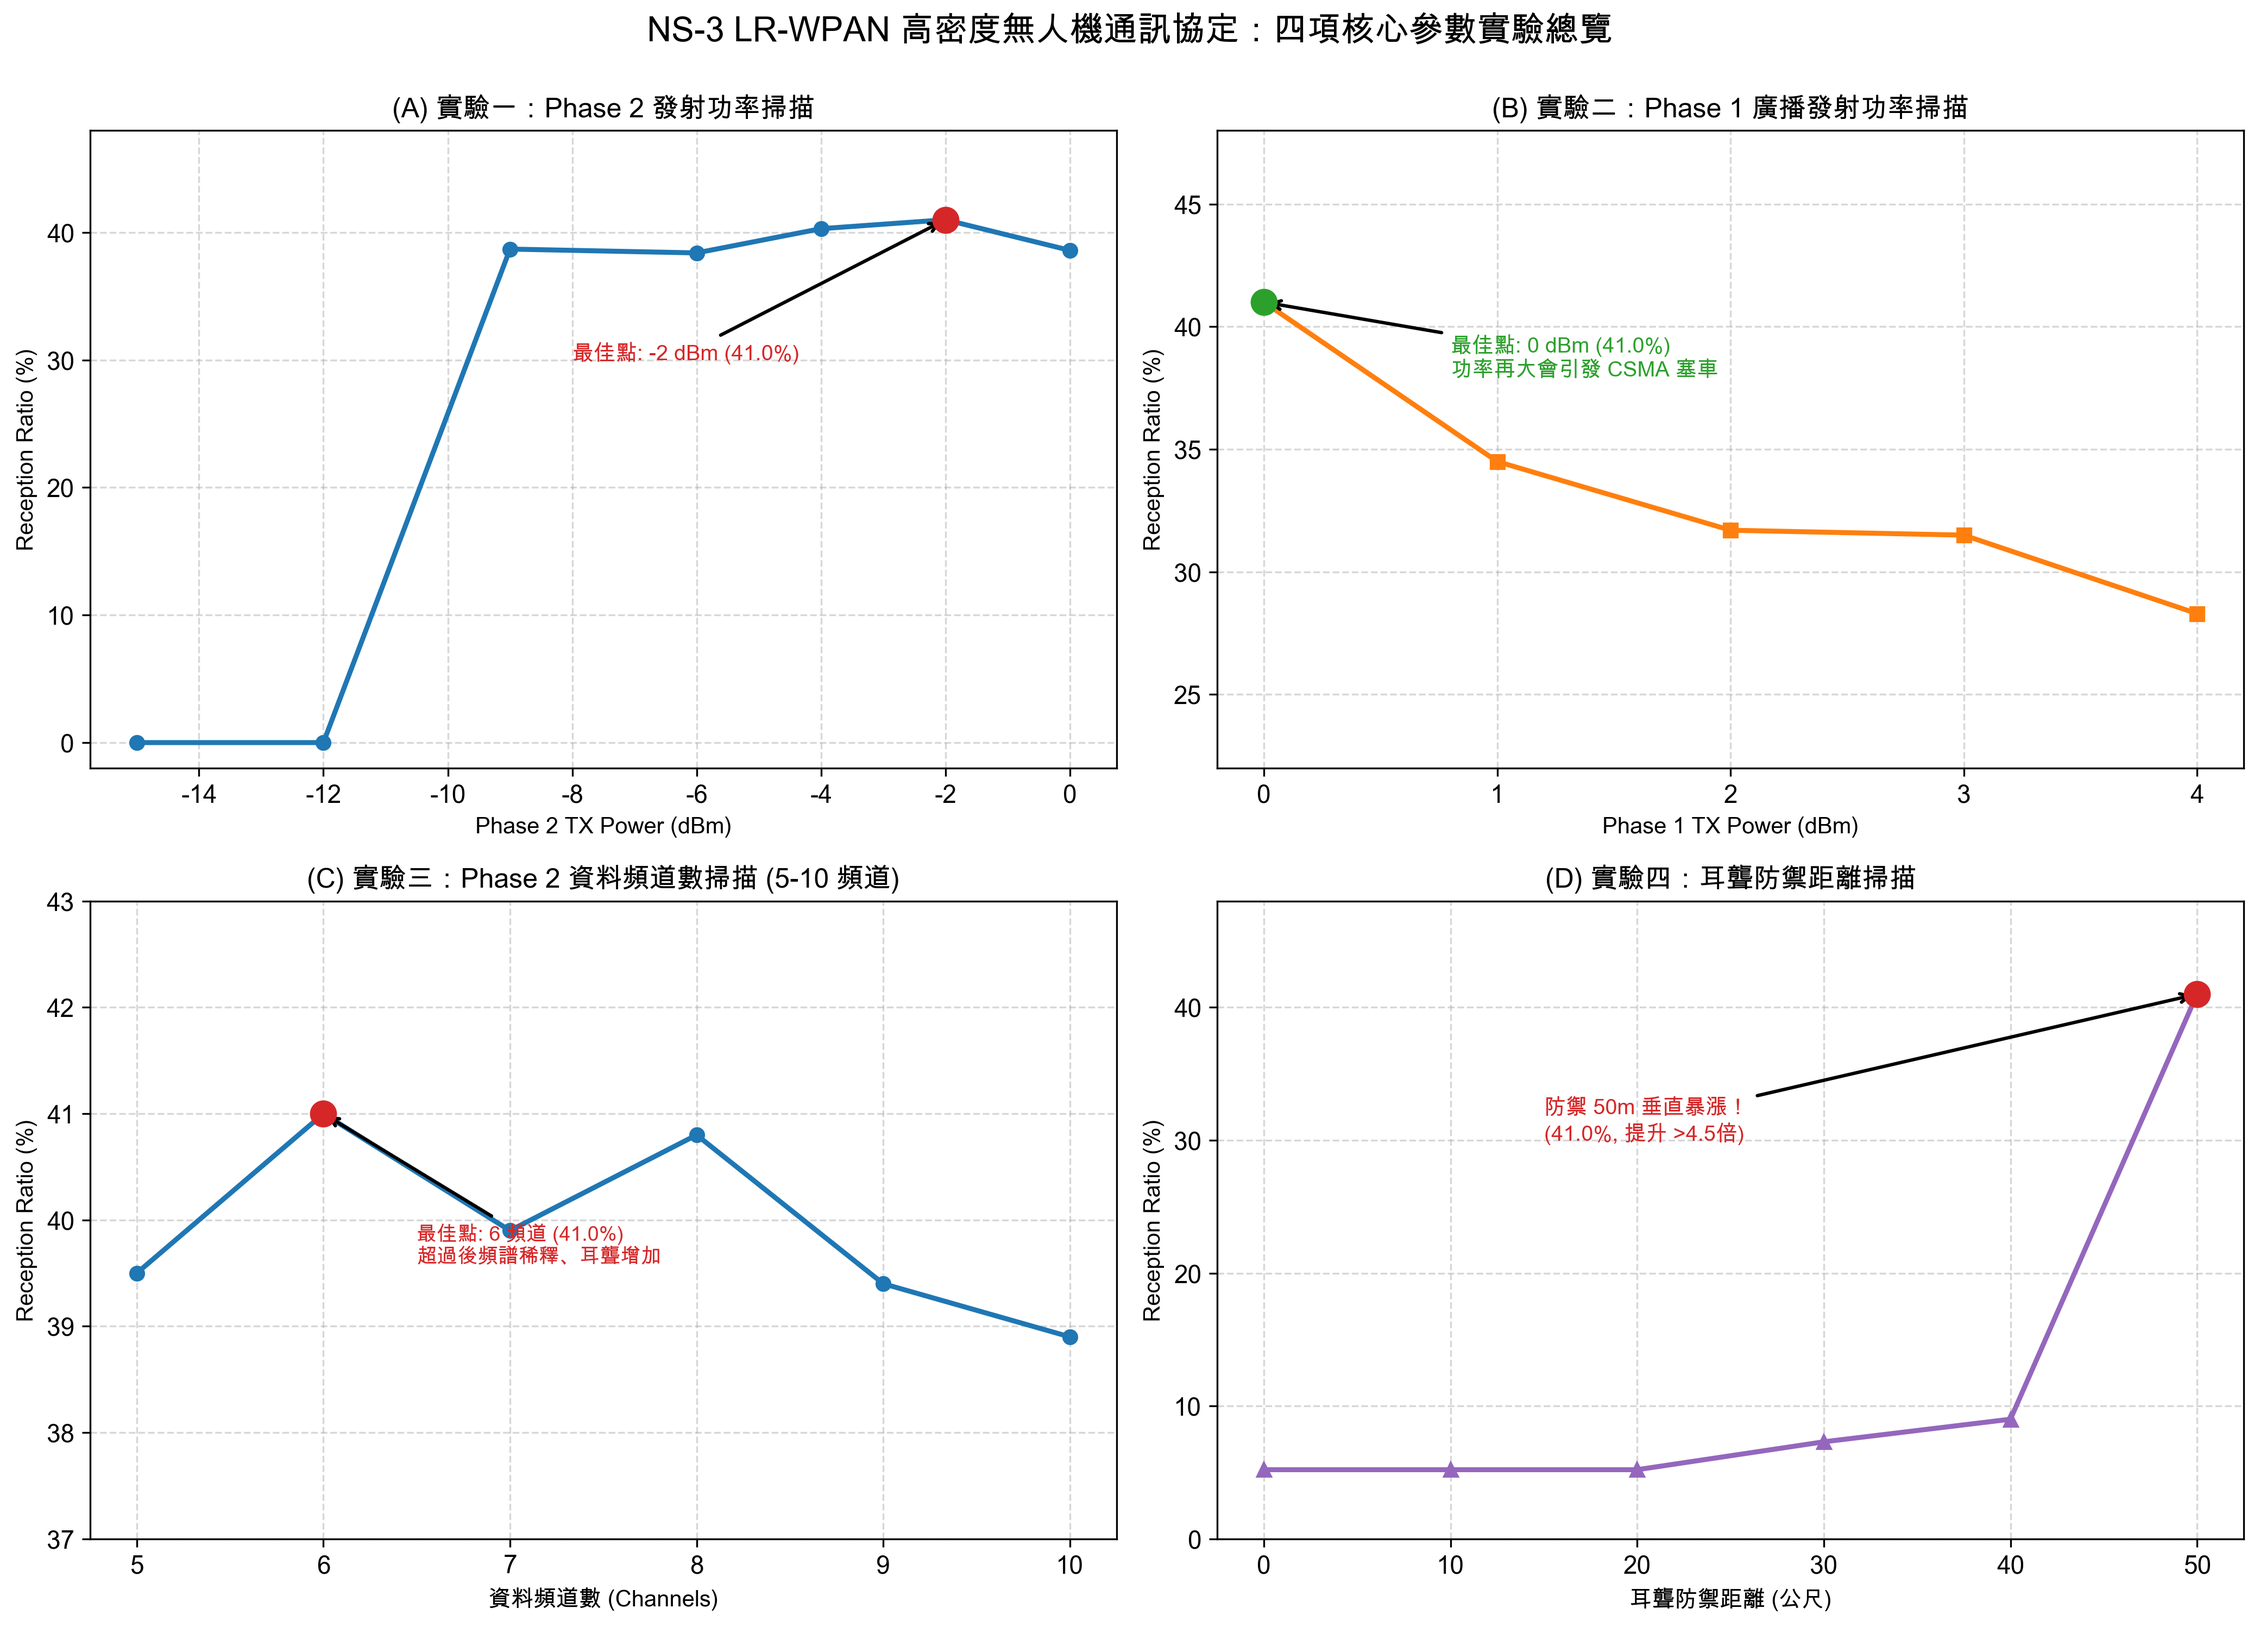
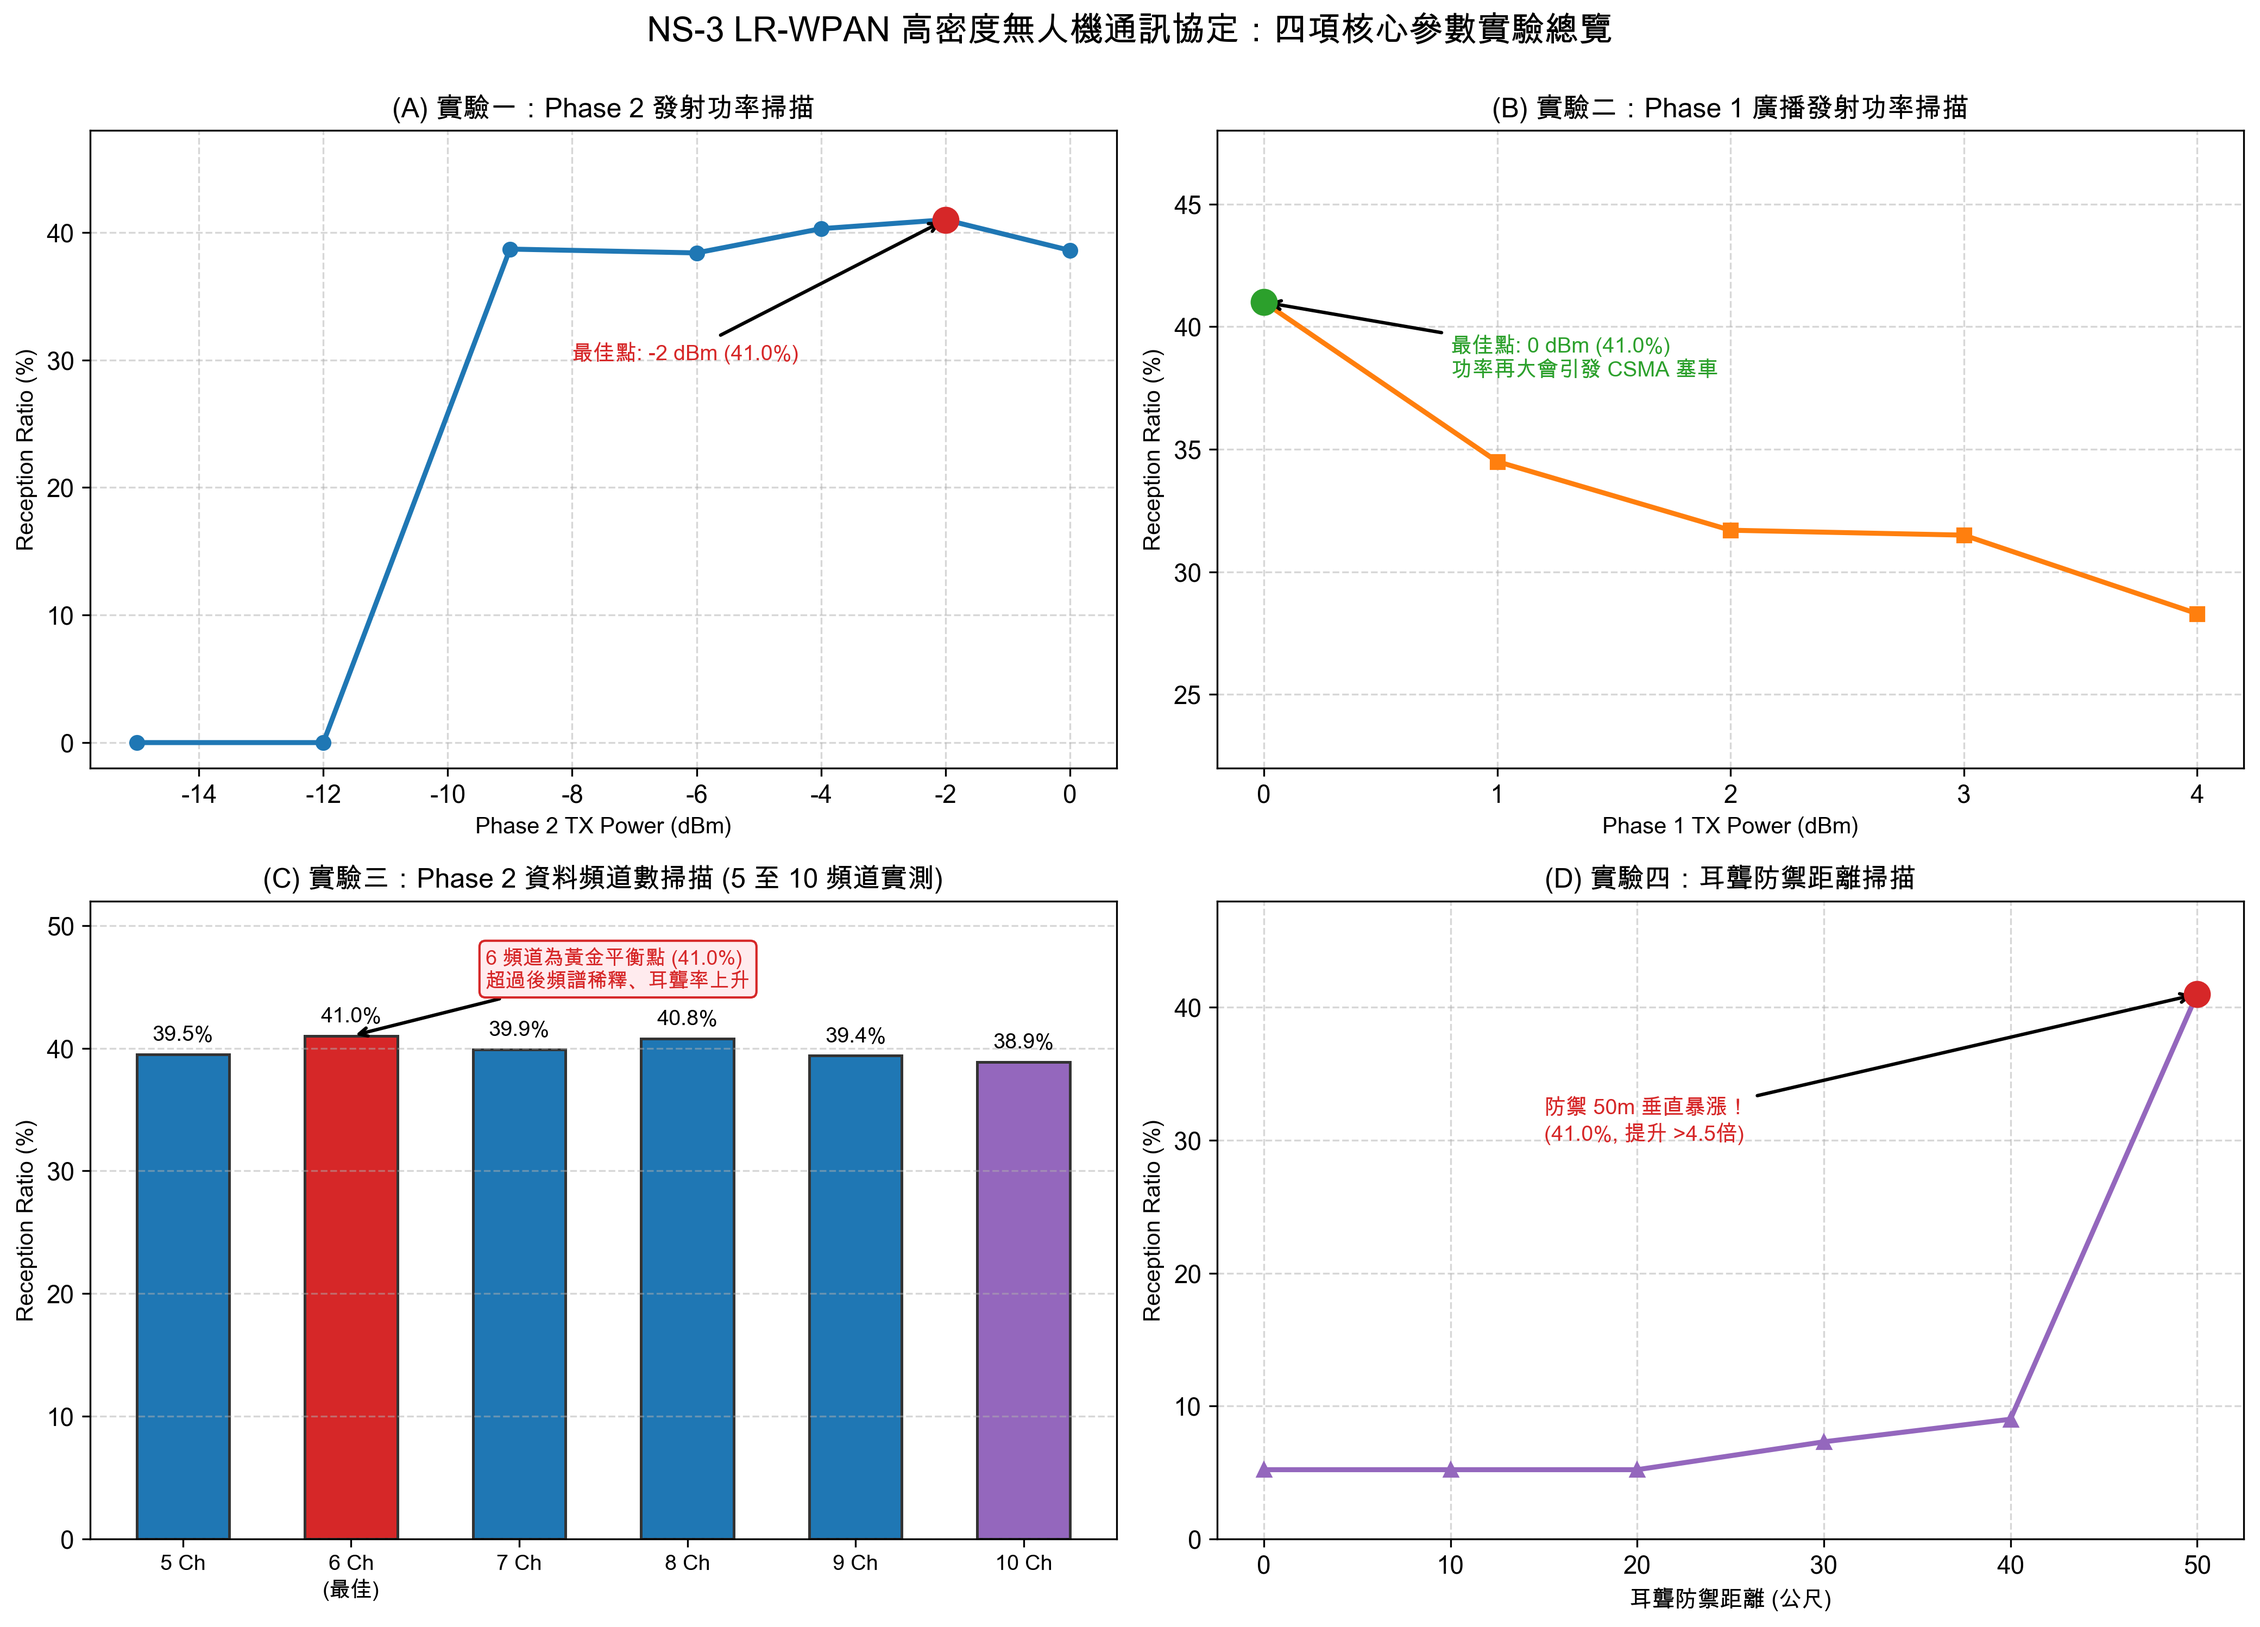
feat: redesign experiment 3 with prominent 6-bar charts and value labels

Changed region(s): [[0.0312, 0.5279, 0.4999, 0.9937], [0.7811, 0.5279, 0.8435, 0.5589]]

diff --git a/plot_experiments.py b/plot_experiments.py
@@ -122,52 +122,46 @@ def plot_exp2():
 # 3. Experiment 3: Channel Count Sweep
 # ==========================================
 def plot_exp3():
-    ch_list = [5, 6, 7, 8, 9, 10]
+    ch_labels = ['5 頻道', '6 頻道\n(最佳)', '7 頻道', '8 頻道', '9 頻道', '10 頻道']
+    ch_x = np.arange(6)
     ratios = [39.5, 41.0, 39.9, 40.8, 39.4, 38.9]
     srfs = [6.43, 6.58, 6.19, 6.24, 5.88, 5.57]
     deafness = [4.7, 4.7, 4.8, 4.8, 5.2, 5.3]
 
-    fig, ax1 = plt.subplots(figsize=(8, 5.2), dpi=300)
+    fig, ax1 = plt.subplots(figsize=(8.5, 5.5), dpi=300)
     
-    # Primary axis: Beacon PRR (%)
-    color_prr = PRIMARY_BLUE
-    ax1.plot(ch_list, ratios, marker='o', markersize=8, color=color_prr, linewidth=2.5, label='Beacon 接收率 (%)')
-    ax1.scatter([6], [41.0], color=ACCENT_RED, s=160, zorder=5, label='最佳參數 (6 頻道, 41.0%)')
+    # Primary axis: Bars for Beacon PRR (%)
+    bar_colors = [PRIMARY_BLUE, ACCENT_RED, PRIMARY_BLUE, PRIMARY_BLUE, PRIMARY_BLUE, ACCENT_PURPLE]
+    bars = ax1.bar(ch_x, ratios, width=0.52, color=bar_colors, edgecolor=DARK_GRAY, linewidth=1.2, label='Beacon 接收率 (%)')
     
-    # Secondary axis: SRF (packets/slot)
+    for bar in bars:
+        h = bar.get_height()
+        ax1.text(bar.get_x() + bar.get_width()/2., h + 0.8, f'{h:.1f}%', ha='center', va='bottom', fontsize=10.5, fontweight='bold')
+
+    # Secondary axis: Line for SRF (packets/slot)
     ax2 = ax1.twinx()
-    color_srf = ACCENT_GREEN
-    ax2.plot(ch_list, srfs, marker='s', markersize=7, color=color_srf, linewidth=2.0, linestyle='--', label='空間重用因子 SRF (pkts/slot)')
-    ax2.scatter([6], [6.58], color=ACCENT_GREEN, s=120, zorder=5)
+    ax2.plot(ch_x, srfs, marker='s', markersize=8, color=ACCENT_GREEN, linewidth=2.5, linestyle='--', label='空間重用因子 SRF (pkts/slot)')
+    ax2.scatter([1], [6.58], color=ACCENT_GREEN, s=140, zorder=5)
+    for x, s in zip(ch_x, srfs):
+        ax2.text(x, s + 0.08, f'{s:.2f}', ha='center', va='bottom', fontsize=9.5, color=ACCENT_GREEN, fontweight='bold')
 
     # Highlight peak at Channel 6
     ax1.annotate('黃金平衡點: 6 頻道\n接收率最高: 41.0%\nSRF 峰值: 6.58 pkts/slot',
-                xy=(6, 41.0), xytext=(6.5, 41.6),
+                xy=(1, 41.0), xytext=(2.2, 45.0),
                 arrowprops=dict(facecolor=ACCENT_RED, edgecolor=ACCENT_RED, shrink=0.08, width=1.8, headwidth=7),
-                fontsize=9.5, fontweight='bold', color=ACCENT_RED,
+                fontsize=10, fontweight='bold', color=ACCENT_RED,
                 bbox=dict(boxstyle="round,pad=0.4", fc="#ffebee", ec=ACCENT_RED, lw=1))
 
-    # Annotation for Channel 5
-    ax1.annotate('5 頻道 (50格)\n資源偏緊 (39.5%)', xy=(5, 39.5), xytext=(5.1, 38.4),
-                 arrowprops=dict(facecolor=DARK_GRAY, arrowstyle="->", lw=1.2),
-                 fontsize=8.5, color=DARK_GRAY)
-
-    # Annotation for Channel 10
-    ax1.annotate('頻道增加至 10\nSRF 降至 5.57 (頻譜被稀釋)\n耳聾率上升至 5.3%', xy=(10, 38.9), xytext=(8.4, 37.8),
-                 arrowprops=dict(facecolor=ACCENT_PURPLE, arrowstyle="->", lw=1.2),
-                 fontsize=8.5, fontweight='bold', color=ACCENT_PURPLE,
-                 bbox=dict(boxstyle="round,pad=0.3", fc="#f3e5f5", ec=ACCENT_PURPLE, lw=1))
-
-    ax1.set_title('實驗三：Phase 2 資料頻道數量掃描 (5 - 10 頻道)\n(Channel Count Sweep: PRR & Spectral Efficiency)', fontsize=13, fontweight='bold', pad=12)
+    ax1.set_title('實驗三：Phase 2 資料頻道數量掃描 (5 - 10 頻道實測)\n(Channel Count Sweep: PRR & Spectral Efficiency)', fontsize=13, fontweight='bold', pad=12)
     ax1.set_xlabel('Phase 2 資料頻道數 (Data Channel Count)', fontsize=11, fontweight='bold')
-    ax1.set_ylabel('Beacon Packet Reception Ratio (%)', fontsize=11, fontweight='bold', color=color_prr)
-    ax2.set_ylabel('Spatial Reuse Factor (packets/slot)', fontsize=11, fontweight='bold', color=color_srf)
+    ax1.set_ylabel('Beacon Packet Reception Ratio (%)', fontsize=11, fontweight='bold', color=PRIMARY_BLUE)
+    ax2.set_ylabel('Spatial Reuse Factor (packets/slot)', fontsize=11, fontweight='bold', color=ACCENT_GREEN)
     
-    ax1.set_xticks(ch_list)
-    ax1.set_xticklabels([f'{c} 頻道' for c in ch_list])
-    ax1.set_ylim(37, 43)
-    ax2.set_ylim(5.0, 7.2)
-    ax1.grid(True, linestyle='--', alpha=0.5)
+    ax1.set_xticks(ch_x)
+    ax1.set_xticklabels(ch_labels, fontsize=10.5, fontweight='bold')
+    ax1.set_ylim(0, 52)
+    ax2.set_ylim(4.5, 7.5)
+    ax1.grid(axis='y', linestyle='--', alpha=0.5)
 
     # Combine legends
     lines1, labels1 = ax1.get_legend_handles_labels()
@@ -265,20 +259,23 @@ def plot_combined():
 
     # Subplot 3
     ax3 = axes[1, 0]
-    ch3 = [5, 6, 7, 8, 9, 10]
+    ch_labels3 = ['5 Ch', '6 Ch\n(最佳)', '7 Ch', '8 Ch', '9 Ch', '10 Ch']
     r3 = [39.5, 41.0, 39.9, 40.8, 39.4, 38.9]
-    ax3.plot(ch3, r3, marker='o', color=PRIMARY_BLUE, lw=2.2)
-    ax3.scatter([6], [41.0], color=ACCENT_RED, s=120, zorder=5)
-    ax3.set_title('(C) 實驗三：Phase 2 資料頻道數掃描 (5-10 頻道)', fontsize=12, fontweight='bold')
-    ax3.set_xlabel('資料頻道數 (Channels)', fontsize=10)
+    bar_colors3 = [PRIMARY_BLUE, ACCENT_RED, PRIMARY_BLUE, PRIMARY_BLUE, PRIMARY_BLUE, ACCENT_PURPLE]
+    bars3 = ax3.bar(range(6), r3, width=0.55, color=bar_colors3, edgecolor=DARK_GRAY, linewidth=1.2)
+    for bar in bars3:
+        h = bar.get_height()
+        ax3.text(bar.get_x() + bar.get_width()/2., h + 0.8, f'{h:.1f}%', ha='center', va='bottom', fontsize=9.5, fontweight='bold')
+    ax3.set_title('(C) 實驗三：Phase 2 資料頻道數掃描 (5 至 10 頻道實測)', fontsize=12, fontweight='bold')
     ax3.set_ylabel('Reception Ratio (%)', fontsize=10)
-    ax3.annotate('最佳點: 6 頻道 (41.0%)\n超過後頻譜稀釋、耳聾增加', xy=(6, 41.0), xytext=(6.5, 39.6),
+    ax3.set_xticks(range(6))
+    ax3.set_xticklabels(ch_labels3, fontsize=9.5)
+    ax3.set_ylim(0, 52)
+    ax3.grid(axis='y', linestyle='--', alpha=0.5)
+    ax3.annotate('6 頻道為黃金平衡點 (41.0%)\n超過後頻譜稀釋、耳聾率上升', xy=(1, 41.0), xytext=(1.8, 45.0),
                  arrowprops=dict(facecolor=ACCENT_RED, arrowstyle="->", lw=1.5),
-                 fontsize=9, fontweight='bold', color=ACCENT_RED)
-    ax3.set_xticks(ch3)
-    ax3.set_xticklabels(['5', '6', '7', '8', '9', '10'])
-    ax3.grid(True, linestyle='--', alpha=0.5)
-    ax3.set_ylim(37, 43)
+                 fontsize=9, fontweight='bold', color=ACCENT_RED,
+                 bbox=dict(boxstyle="round,pad=0.3", fc="#ffebee", ec=ACCENT_RED, lw=1))
 
     # Subplot 4
     ax4 = axes[1, 1]
